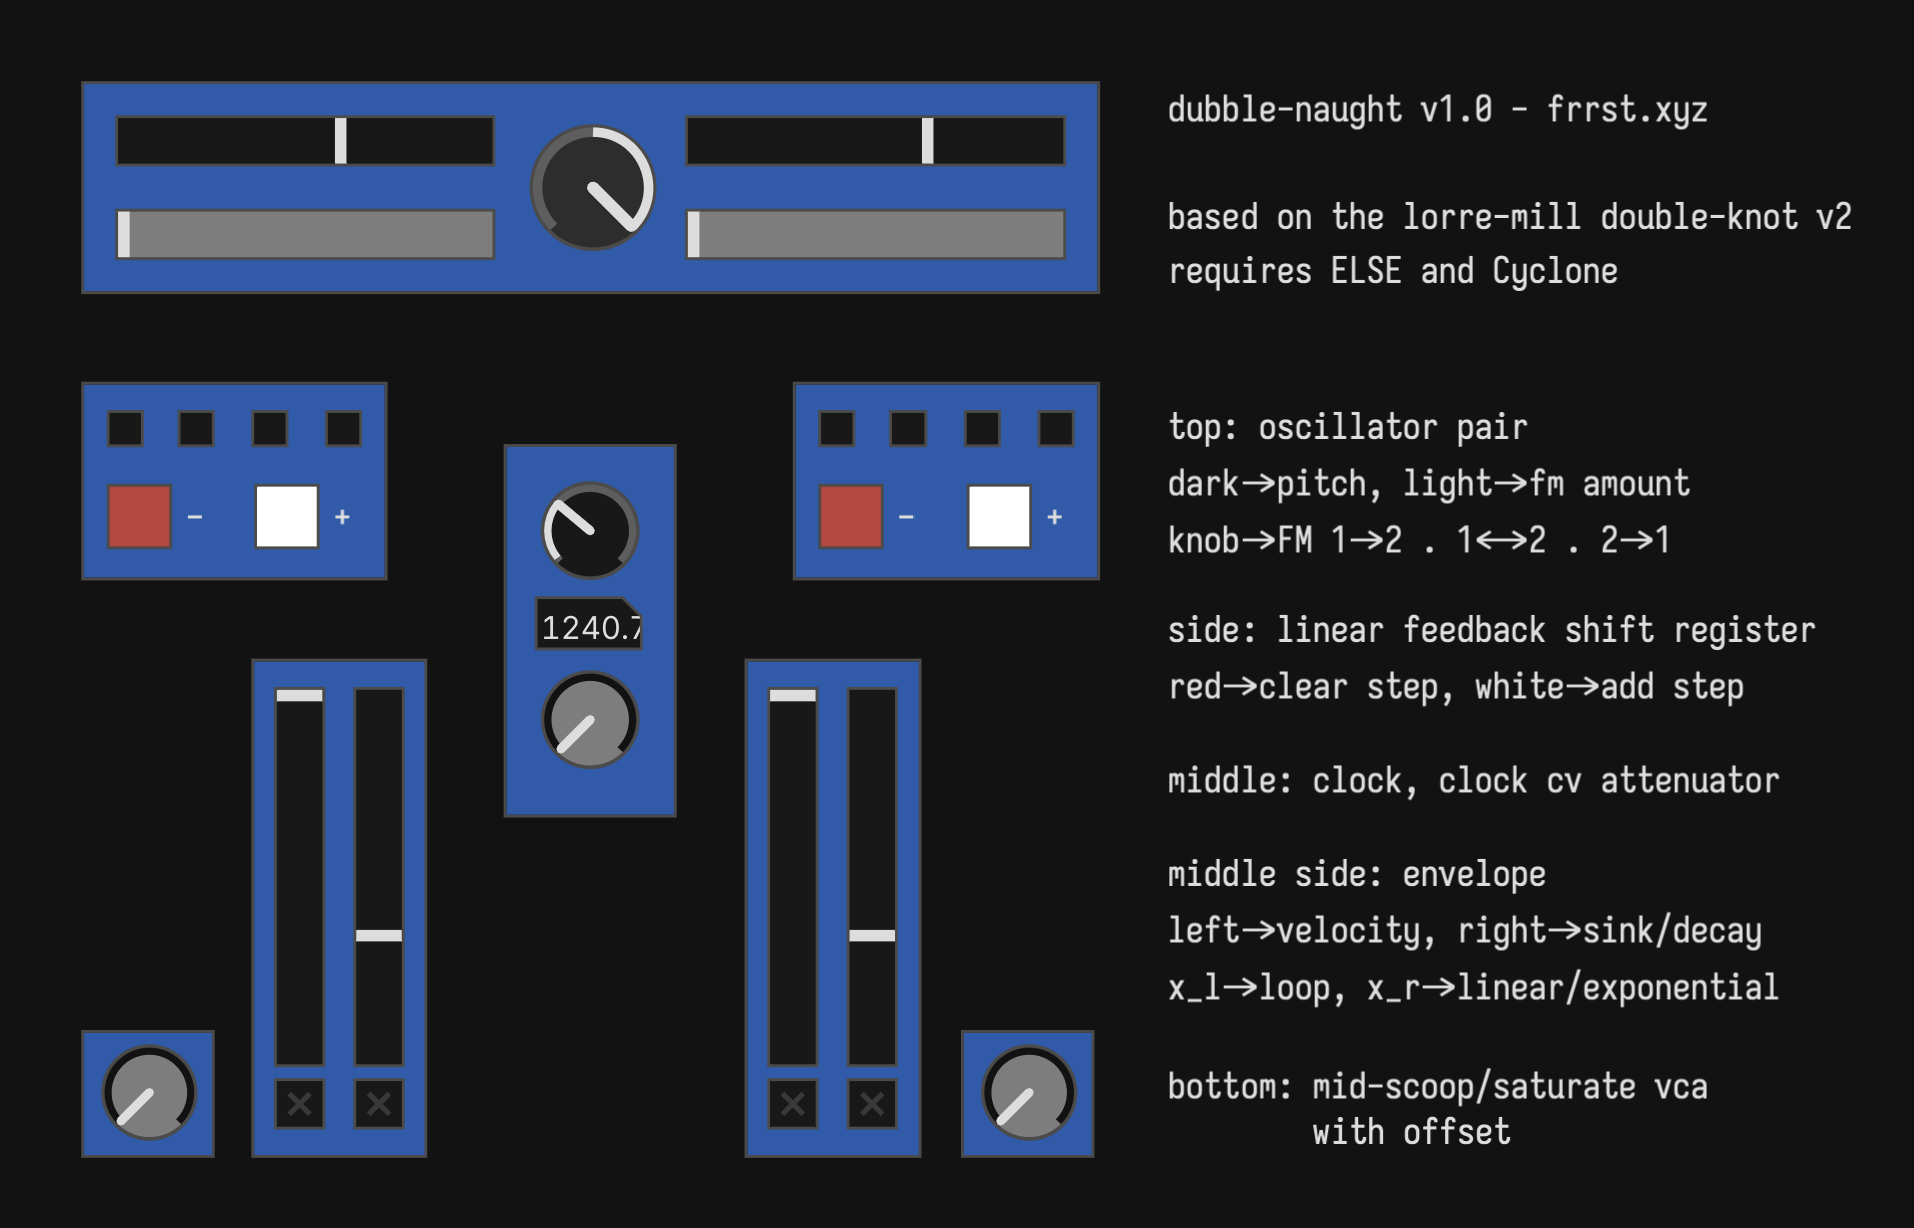
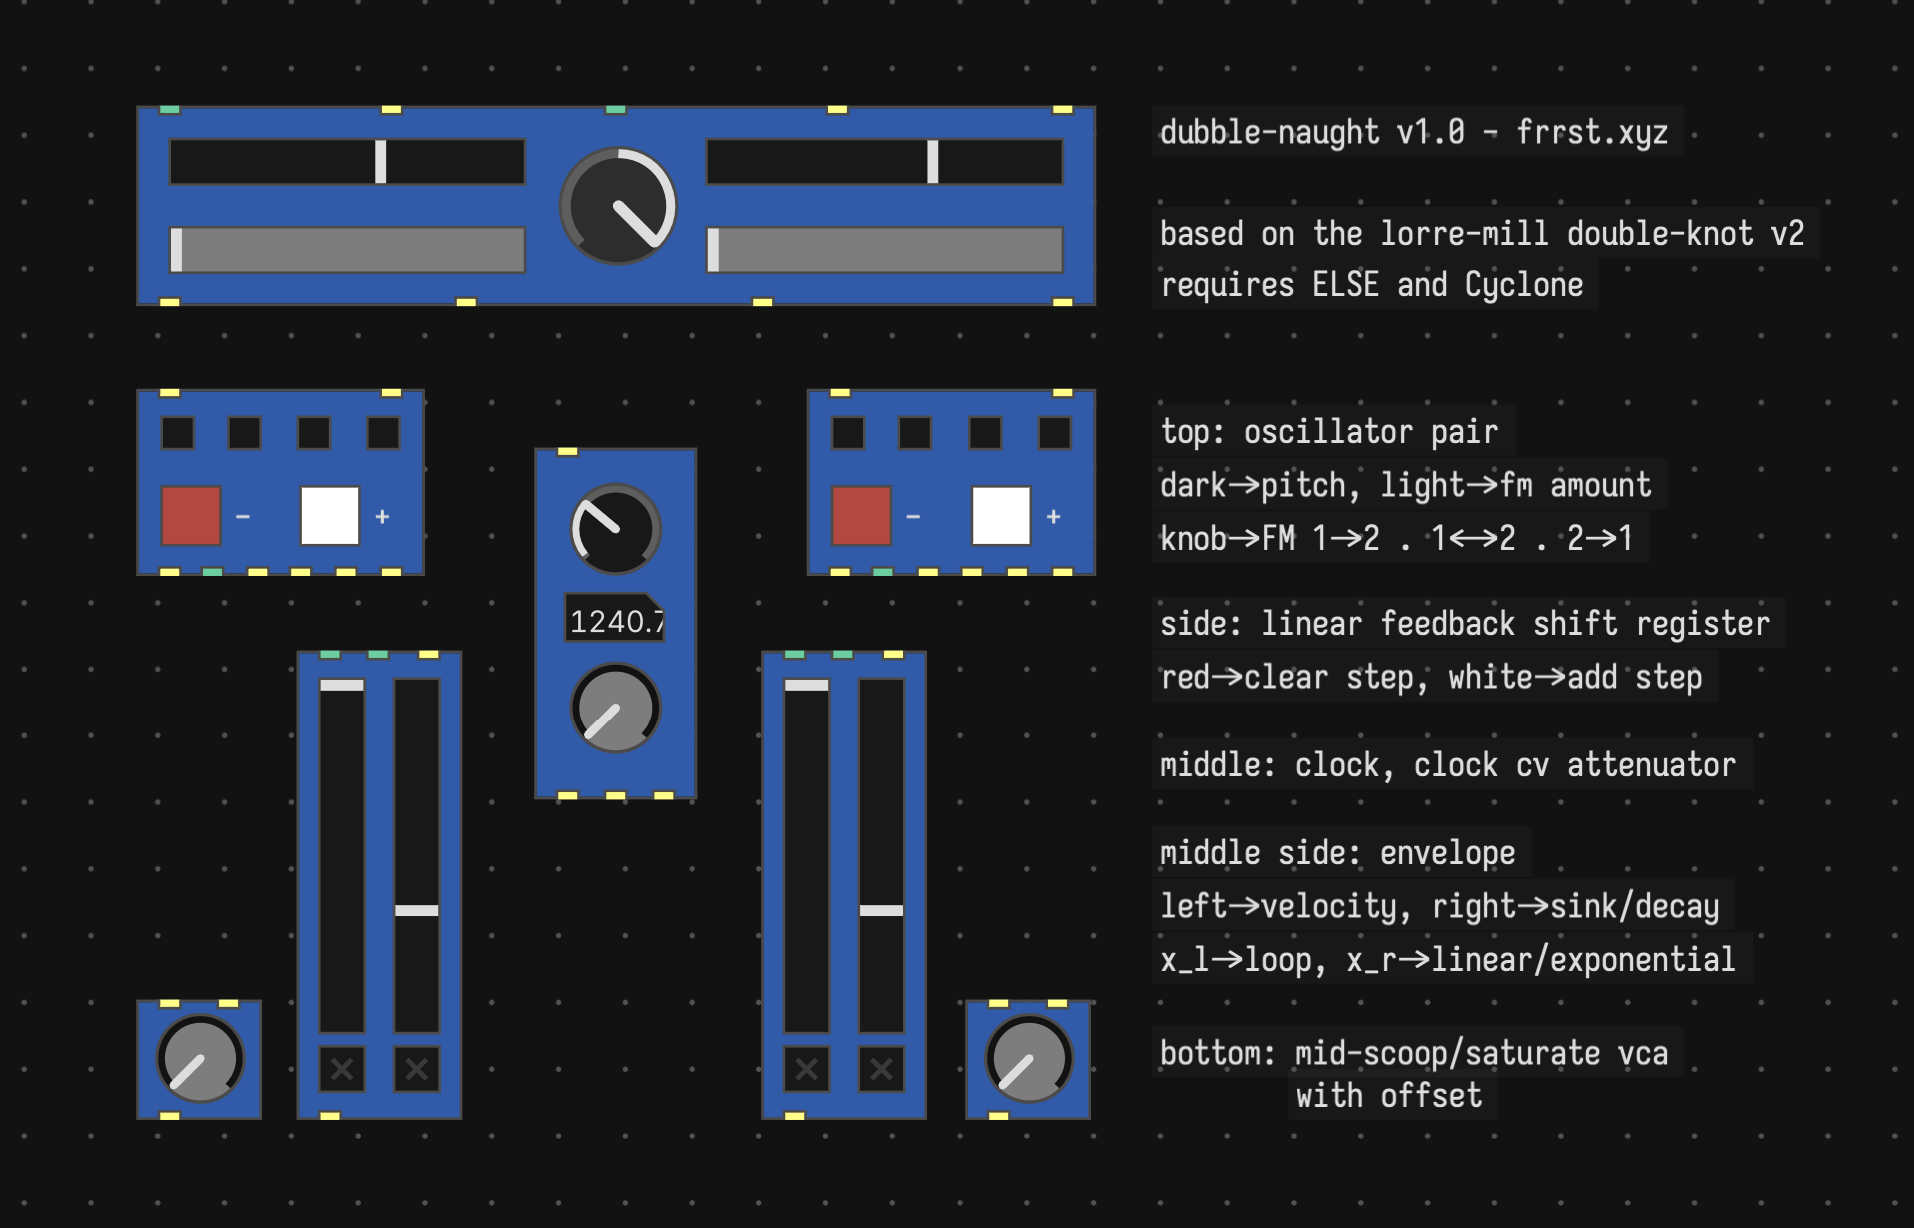
screenshot with in/outlets

diff --git a/README.md b/README.md
@@ -4,6 +4,6 @@
 
 A simulation of the Lorre-Mill [Double-Knot v2](https://lorre-mill.com/doubleknot_V2/) in [Plugdata](https://plugdata.org/) / [Pure Data](https://puredata.info).
 
-Requires ELSE/Cyclone (Built into Plugdata, download from Deken in PD Vanilla)
+Requires ELSE/Cyclone (Built into Plugdata, download from Deken in PD Vanilla).
 
-A real double-knot it is not, but a fair approximation I think it be. Open to changes, let me know.
+A real double-knot it is not, but a fair approximation I think it be.
